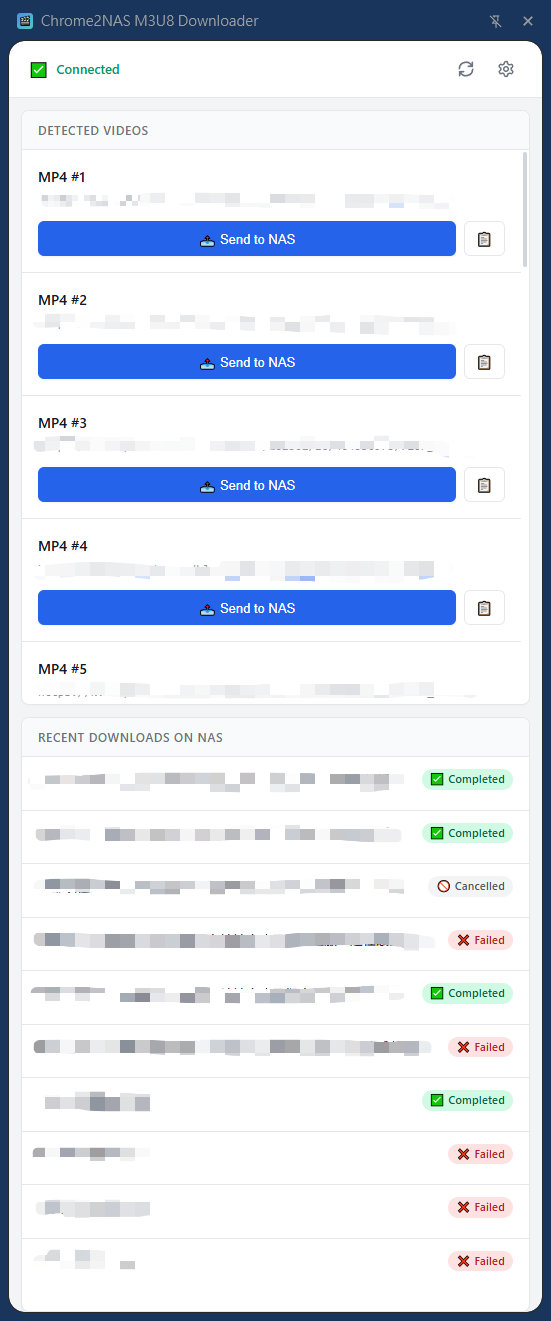
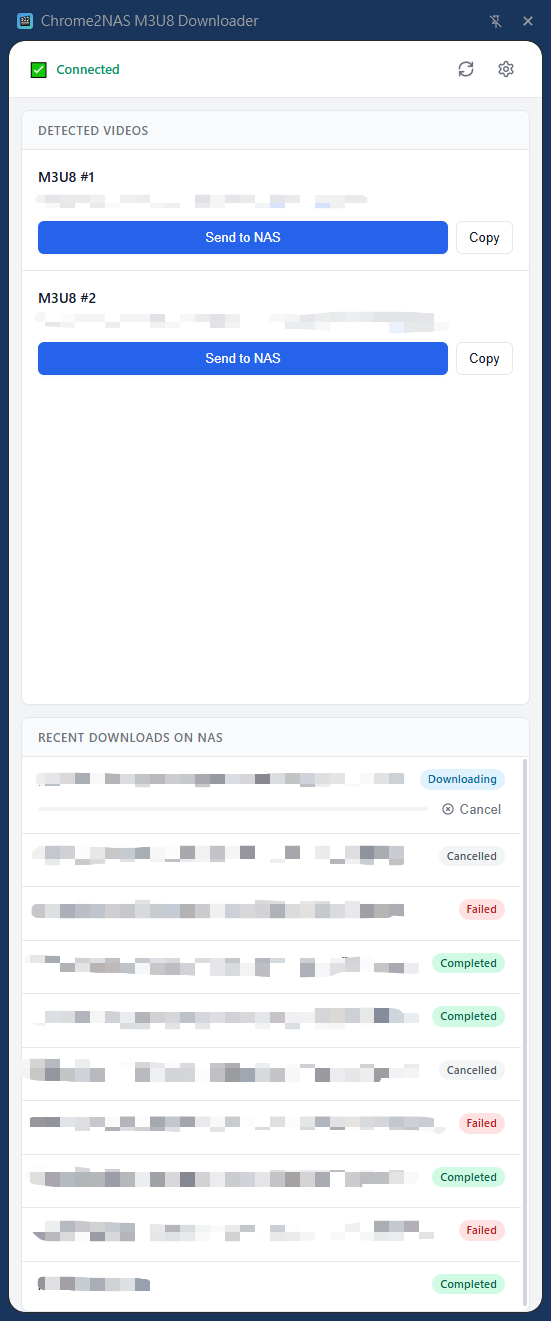
Update UI elements in Chrome extension for improved clarity and spacing
- Added gap between flex items in sidepanel CSS for better layout.
- Removed emoji from button labels and messages for a cleaner appearance.
- Enhanced user feedback messages by simplifying text in various functions.
- Updated screenshot to reflect recent UI changes.

diff --git a/chrome-extension/sidepanel.js b/chrome-extension/sidepanel.js
@@ -120,7 +120,7 @@ function renderDetectedUrls() {
       <div class="url-link" title="${urlInfo.url}">${truncateUrl(urlInfo.url)}</div>
       ${hasIp ? `
         <div class="ip-warning">
-          ⚠ <strong>IP-Restricted URL Detected</strong><br>
+          <strong>IP-Restricted URL Detected</strong><br>
           This URL contains an IP address, meaning the website restricts downloads to that specific IP. 
           To download successfully, your NAS and PC must use the same IP address. 
           Use Tailscale exit node or similar VPN solution to route the traffic through a same IP address.
@@ -128,10 +128,10 @@ function renderDetectedUrls() {
       ` : ''}
       <div class="url-actions">
         <button class="btn-send" data-url="${escapeHtml(urlInfo.url)}" data-page="${escapeHtml(urlInfo.pageUrl || '')}">
-          📤 Send to NAS
+          Send to NAS
         </button>
         <button class="btn-copy" data-url="${escapeHtml(urlInfo.url)}">
-          📋
+          Copy
         </button>
       </div>
     </div>
@@ -184,7 +184,7 @@ function renderJobs() {
   if (jobs.length === 0) {
     listElement.innerHTML = `
       <div class="empty-state">
-        <p>📥 No recent downloads</p>
+        <p>No recent downloads</p>
       </div>
     `;
     return;
@@ -215,7 +215,7 @@ function renderJobs() {
                 <circle cx="12" cy="12" r="10"/>
                 <path d="m15 9-6 6M9 9l6 6"/>
               </svg>
-              Cancel
+              <span>Cancel</span>
             </button>
           ` : ''}
         </div>
@@ -255,14 +255,14 @@ async function sendToNAS(url, pageUrl) {
     });
 
     // Show feedback
-    showToast('📤 Sending to NAS...');
+    showToast('Sending to NAS...');
 
     // Refresh jobs after 2 seconds
     setTimeout(loadRecentJobs, 2000);
 
   } catch (error) {
     console.error('Error:', error);
-    showToast('❌ Failed to send');
+    showToast('Failed to send');
   }
 }
 
@@ -282,23 +282,23 @@ async function cancelJob(jobId) {
     });
 
     if (response.ok) {
-      showToast('🛑 Job cancelled');
+      showToast('Job cancelled');
       // Refresh jobs list
       await loadRecentJobs();
     } else {
       const error = await response.json();
-      showToast(`❌ ${error.detail || 'Failed to cancel'}`);
+      showToast(`${error.detail || 'Failed to cancel'}`);
     }
   } catch (error) {
     console.error('Error cancelling job:', error);
-    showToast('❌ Failed to cancel job');
+    showToast('Failed to cancel job');
   }
 }
 
 // Copy to clipboard
 function copyToClipboard(text) {
   navigator.clipboard.writeText(text).then(() => {
-    showToast('📋 Copied to clipboard');
+    showToast('Copied to clipboard');
   });
 }
 
@@ -334,12 +334,12 @@ function truncateUrl(url, maxLength = 60) {
 
 function getStatusLabel(status) {
   const labels = {
-    'pending': '⏳ Pending',
-    'downloading': '⬇ Downloading',
-    'processing': '⚙ Processing',
-    'completed': '✅ Completed',
-    'failed': '❌ Failed',
-    'cancelled': '🚫 Cancelled'
+    'pending': 'Pending',
+    'downloading': 'Downloading',
+    'processing': 'Processing',
+    'completed': 'Completed',
+    'failed': 'Failed',
+    'cancelled': 'Cancelled'
   };
   return labels[status] || status;
 }

diff --git a/chrome-extension/sidepanel.css b/chrome-extension/sidepanel.css
@@ -305,6 +305,7 @@ html, body {
   border-radius: 4px;
   display: flex;
   align-items: center;
+  gap: 6px;
 }
 
 .btn-cancel:hover {
